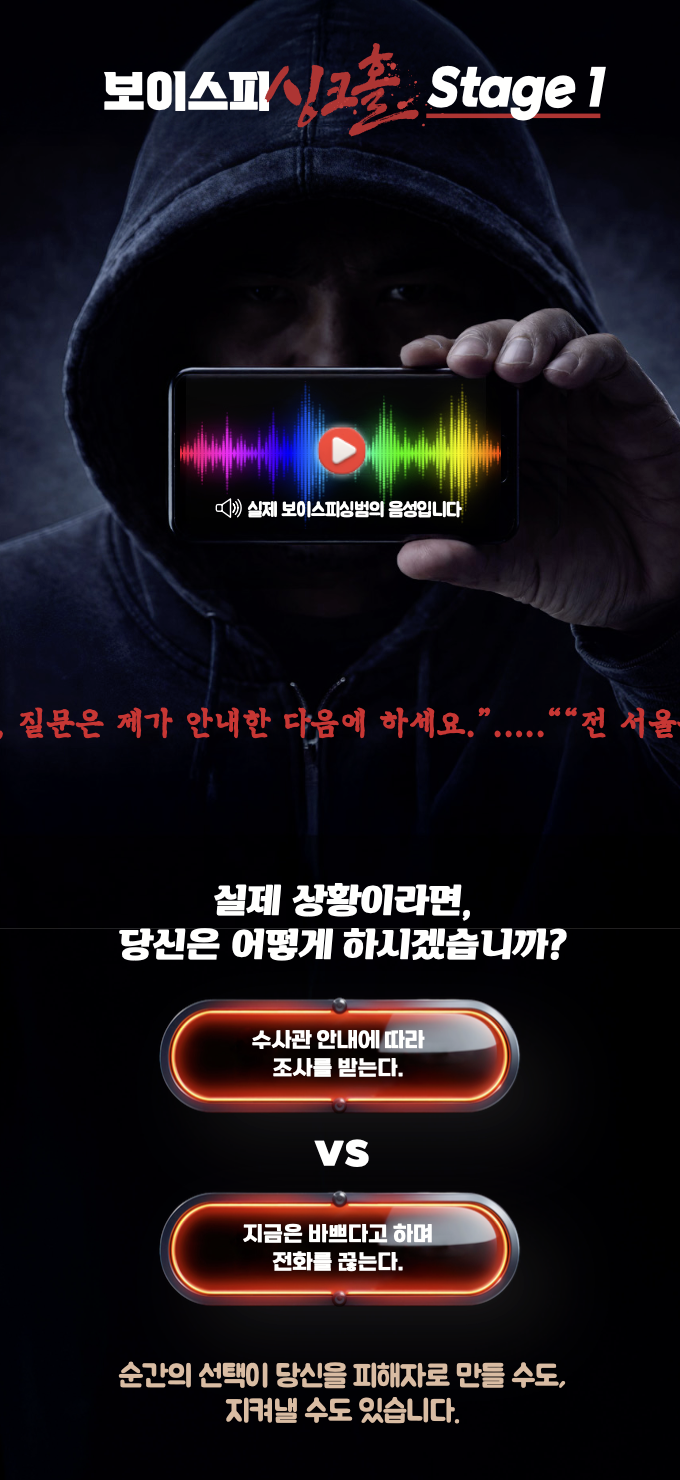
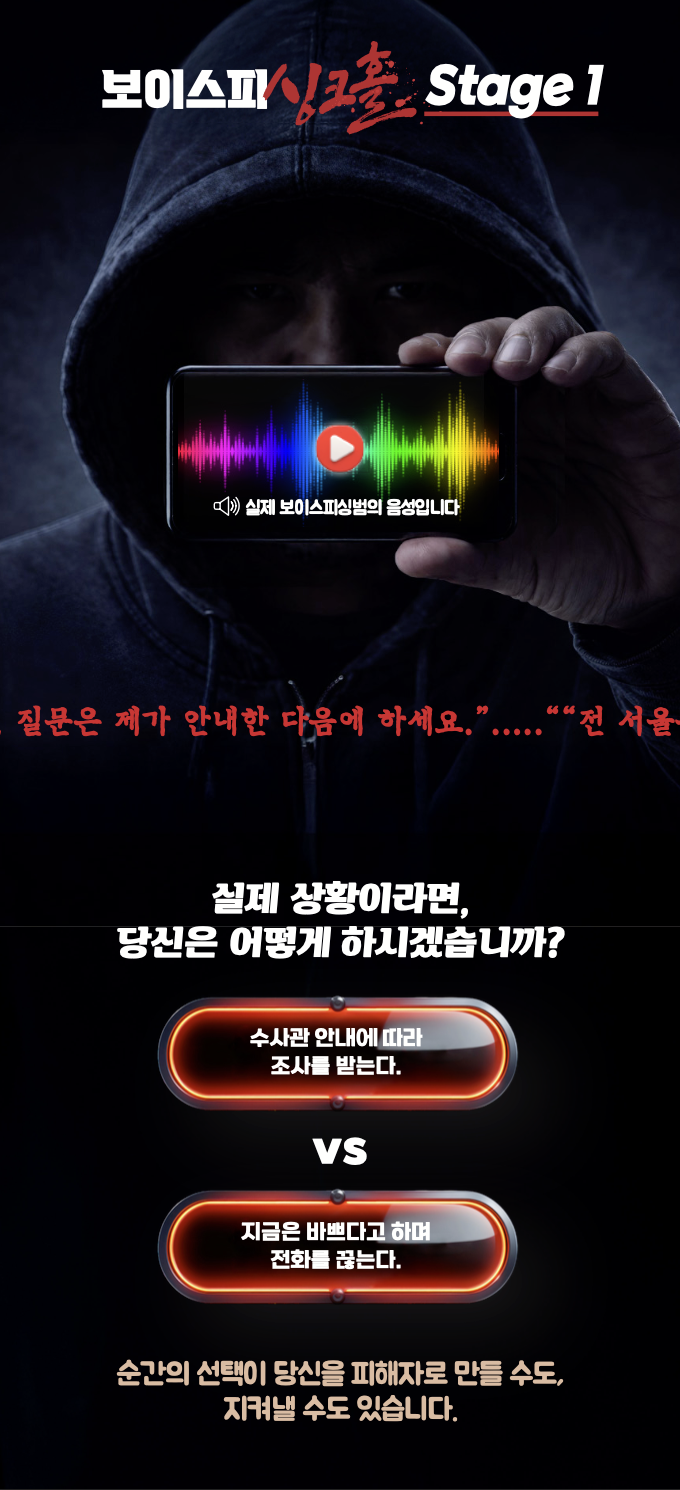
자막 수정 및 스테이지 별 인덱싱 변경

diff --git a/index.html b/index.html
@@ -268,8 +268,8 @@
           <!-- 빨간 글자 티커 오버레이 -->
         <div class="ticker-overlay" aria-hidden="true">
             <div class="ticker-track">
-              <img class="ticker-img" src="image/step1/스테이지 자막.png" alt="" draggable="false" />
-              <img class="ticker-img" src="image/step1/스테이지 자막.png" alt="" draggable="false" />
+              <span class="ticker-text">"녹취 같은 경우는 동의 하십니까?"　"그럼 현 시간부로 약식 녹취조사를 시작하겠습니다."　"전 서울중앙지검 합동수사… 박영도 수사관입니다."　"개인 정보 보호법에 의거하여 주민등록번호, 계좌번호 , 통장 비밀번호는 절대로 말씀하시면 안되고…"　"000씨 명의 통장이 지금 불법 대포 통장으로 개설되어…"　"본인 명의 계좌가 범죄에 이용된 사실이 확인됐습니다."　"비대면 확인 안 되는 계좌라 지점에 직접 가셔야 합니다."　"연봉 낮거나 무직인 사람들이 대부분 통장을 판매하거나 양도하시더라구요."　"본인은 통장을 판매하거나 양도하시는 여건이 아니다라는 것을 증명해야"　"사람 없는데로 독립적인 공간으로 가셔서 통화 안되십니까?"　　　　　</span>
+              <span class="ticker-text">"녹취 같은 경우는 동의 하십니까?"　"그럼 현 시간부로 약식 녹취조사를 시작하겠습니다."　"전 서울중앙지검 합동수사… 박영도 수사관입니다."　"개인 정보 보호법에 의거하여 주민등록번호, 계좌번호 , 통장 비밀번호는 절대로 말씀하시면 안되고…"　"000씨 명의 통장이 지금 불법 대포 통장으로 개설되어…"　"본인 명의 계좌가 범죄에 이용된 사실이 확인됐습니다."　"비대면 확인 안 되는 계좌라 지점에 직접 가셔야 합니다."　"연봉 낮거나 무직인 사람들이 대부분 통장을 판매하거나 양도하시더라구요."　"본인은 통장을 판매하거나 양도하시는 여건이 아니다라는 것을 증명해야"　"사람 없는데로 독립적인 공간으로 가셔서 통화 안되십니까?"　　　　　</span>
             </div>
           </div>
 
@@ -974,8 +974,8 @@
           <!-- 티커 오버레이 -->
           <div class="ticker-overlay" aria-hidden="true">
             <div class="ticker-track">
-              <span class="ticker-text">"여보세요 연락 드린 곳은 서울 남부지검의 강회완 수사관 이라고 합니다"　"지금 조사 중인 사건때문에 연락 드렸는데요"　"명의를 가지고 중고거래 사이트에서 사기행각을 벌이다 저희 지검에 검거가 됐습니다"　"사건 현장에서 본인 명의로 개설 된 우리은행 통장하고 대포폰이 발견되었습니다."　"최근 사이에 지갑이나 신분증이랑 핸드폰 같은 것을 잃어버린 적은 없으셨구요?"　"이 현장에서 본인의 명의가 증거물로 발견 되었기 때문에 지금 저희 쪽에서 수사"　"개인 정보 유출로 인해서 피해를 본 피해자인지 확인 하려고 연락 드린 겁니다"　"본인이 가해자인지 피해자인지 확인해야 합니다."　"본인이 사건과 관련이 없다는 법적으로 입증 될 만한 증거자료가 없기 때문에 지금 피해자 입증 조사가 필요한 상황"　"이 녹취를 통한 약식 조사를 진행할거고 이 통화 중에 모든 것을 이제 녹취를 통해서 증거물을 남길 겁니다."　"통화 내용은 전부 녹취됩니다."　"최대한 조용한 곳에서 진행을 하셔야 되는데."　"주변에 제 삼자 많으십니까?"　　　　　</span>
-              <span class="ticker-text">"여보세요 연락 드린 곳은 서울 남부지검의 강회완 수사관 이라고 합니다"　"지금 조사 중인 사건때문에 연락 드렸는데요"　"명의를 가지고 중고거래 사이트에서 사기행각을 벌이다 저희 지검에 검거가 됐습니다"　"사건 현장에서 본인 명의로 개설 된 우리은행 통장하고 대포폰이 발견되었습니다."　"최근 사이에 지갑이나 신분증이랑 핸드폰 같은 것을 잃어버린 적은 없으셨구요?"　"이 현장에서 본인의 명의가 증거물로 발견 되었기 때문에 지금 저희 쪽에서 수사"　"개인 정보 유출로 인해서 피해를 본 피해자인지 확인 하려고 연락 드린 겁니다"　"본인이 가해자인지 피해자인지 확인해야 합니다."　"본인이 사건과 관련이 없다는 법적으로 입증 될 만한 증거자료가 없기 때문에 지금 피해자 입증 조사가 필요한 상황"　"이 녹취를 통한 약식 조사를 진행할거고 이 통화 중에 모든 것을 이제 녹취를 통해서 증거물을 남길 겁니다."　"통화 내용은 전부 녹취됩니다."　"최대한 조용한 곳에서 진행을 하셔야 되는데."　"주변에 제 삼자 많으십니까?"　　　　　</span>
+              <span class="ticker-text">"법원 등기 관련해서 연락드렸고요"　"반송되어서 확인차 연락드렸습니다"　"재발송해 드릴 예정입니다."　"참고인 출석 요구서와 관련해서 공문인데요…"　"인터넷으로 조회하시는 것은 가능하세요?"　"킥스 들어가시면 되는데요"　"인터넷 주소창에 www 지우시고요 ykics24.kr입력하시면 되고요"　"하얀 테두리 박스에 나의 사건 조회 보이시나요? : 실명인증하기 나오실 가에요"　"실명인증하시면 서류 나오는데요"　"서류에 2023조서라고 해서 사건번호가 나오는데요 관련 내용 전달해 드리려면 본인 열람이 확인되어야 해서요"　"사건번호 말씀해 주시면 관련 내용 전달해 드리겠습니다"　"중앙지검 수사과이고요 특수 1팀에 유병제 사무관이라고 합니다"　"공문 내용 확인하시면 안에 기재되어 있으니까요 확인하시고요"　　　　　</span>
+              <span class="ticker-text">"법원 등기 관련해서 연락드렸고요"　"반송되어서 확인차 연락드렸습니다"　"재발송해 드릴 예정입니다."　"참고인 출석 요구서와 관련해서 공문인데요…"　"인터넷으로 조회하시는 것은 가능하세요?"　"킥스 들어가시면 되는데요"　"인터넷 주소창에 www 지우시고요 ykics24.kr입력하시면 되고요"　"하얀 테두리 박스에 나의 사건 조회 보이시나요? : 실명인증하기 나오실 가에요"　"실명인증하시면 서류 나오는데요"　"서류에 2023조서라고 해서 사건번호가 나오는데요 관련 내용 전달해 드리려면 본인 열람이 확인되어야 해서요"　"사건번호 말씀해 주시면 관련 내용 전달해 드리겠습니다"　"중앙지검 수사과이고요 특수 1팀에 유병제 사무관이라고 합니다"　"공문 내용 확인하시면 안에 기재되어 있으니까요 확인하시고요"　　　　　</span>
             </div>
           </div>
 

diff --git a/css/style.css b/css/style.css
@@ -302,7 +302,7 @@ img {
     top: 25.8%; /* 205 / 844 */
     left: 25.7%; /* 38  / 390 */
     width: 47.6%; /* 314 / 390 */
-    height: 8.7%; /* 90  / 844 */
+    height: 7.45%; /* 90  / 844 */
   }
   .wave-play-btn {
     width: 40px;
@@ -318,7 +318,7 @@ img {
     top: 36.1%; /* 195 / 1080 */
     left: 38.7%; /* 590 / 1920 */
     width: 20.5%; /* 740 / 1920 */
-    height: 13.7%; /* 150 / 1080 */
+    height: 13.4%; /* 150 / 1080 */
   }
   .wave-play-btn {
     width: 64px;
@@ -339,7 +339,7 @@ img {
   display: flex;
   align-items: center;
   z-index: 2;
-  background: rgba(0, 0, 0, 0.75); /* 반투명 검정 배경 */
+  background: rgba(0, 0, 0, 0.87); /* 반투명 검정 배경 */
 }
 
 .ticker-track {
@@ -371,7 +371,7 @@ img {
    티커 밴드: top 304/844 = 36.0%, height 28px */
 @media (max-width: 768px) {
   .ticker-overlay {
-    top: 46.8%; /* 304 / 844 */
+    top: 47%; /* 304 / 844 */
     height: 36px;
   }
   .ticker-text {
@@ -686,8 +686,8 @@ img {
   .intro1-red-dot-mo {
     display: block;
     top: 54%; /* TODO: 조정 필요 */
-    left: 10%; /* TODO: 조정 필요 */
-    width: 80%;
+    left: 12%; /* TODO: 조정 필요 */
+    width: 77%;
   }
 }
 
